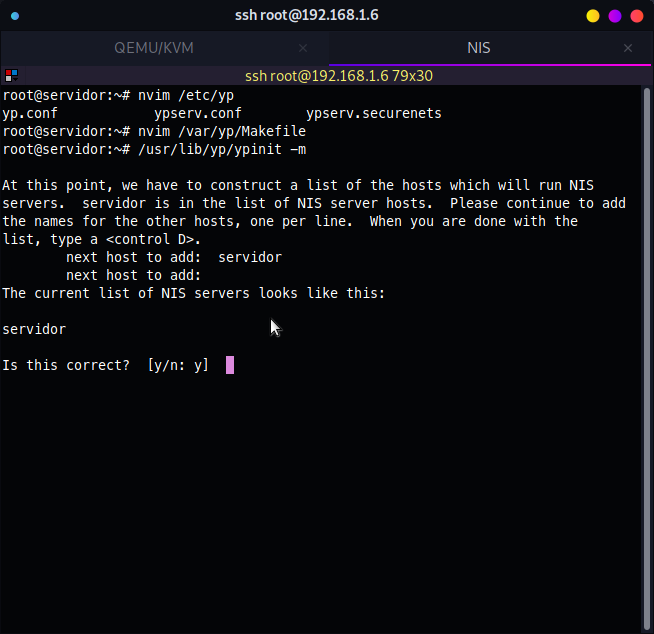
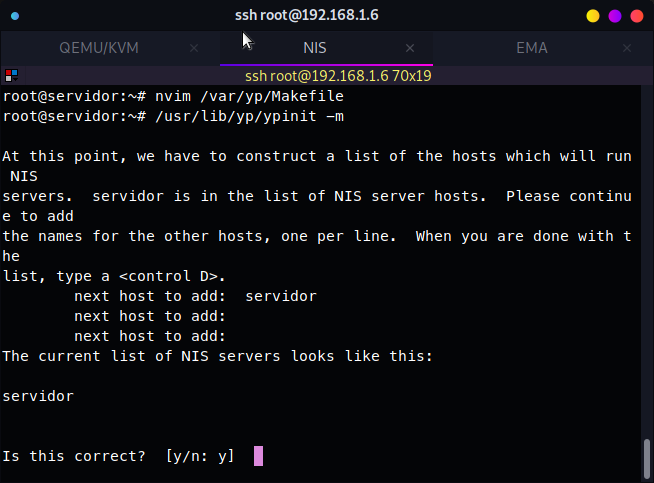
nis

diff --git a/_posts/2022-08-21-nis.md b/_posts/2022-08-21-nis.md
@@ -31,7 +31,205 @@ tags:
 
 ![](/assets/images/nis/wallpapers.png)
 
+**SERVIDOR IP: 192.168.1.6**
+
+**EQUIPO CLIENTE: 192.168.1.8**
+
+
+## ISTALACIÓN
+
+La instalación de Network Information Service se puede realizar desde la misma terminal de Linux.
+
 ```bash
 apt update
 apt upgrade
+apt install nis
 ```
+
+**NIS** funcionara como cliente o servidor, dependiendo de la configuración que se realice.
+
+## CONFIGURACIÓN
+
+Para convertir **NIS** en un servidor se debe editar el archivo **_/etc/defaults/nis_**.
+
+
+
+```bash
+nvim /etc/defaults/nis
+```
+
+Dentro del mismo se debe definir a **NISSERVER** como _master_.
+
+```bash
+# Are we a NIS server and if so what kind (values: false, slave, master)?
+NISSERVER=master
+```
+
+### RED
+
+Definir las redes que tendrán acceso al NIS (Yellow Pages)
+
+```bash
+nvim /etc/ypserv.securenets
+```
+
+Para este ejemplo utilizare la red **192.168.1.0/24**. 
+
+```bash
+# This lines gives access to everybody. PLEASE ADJUST!
+255.255.255.0           192.168.1.0
+```
+Al definir la red con la cual se trabajara, ninguna maquina fuera de esta red tendrá acceso.
+
+### DOMINIO NIS
+
+Asignar dominio **NIS**. En este ejemplo utilizare **_ema.local_**.
+
+
+```bash
+nvim /etc/defaultdomain
+```
+
+Este archivo es probable que no exista, por lo tanto se debe crear.
+
+```bash
+ema.local
+~
+~
+```
+
+Finalizada las configuraciones es necesario reiniciar los servicios y habilitarlos para que inicien de forma automática con el sistema.
+
+
+```bash
+systemctl restart rpcbind ypserv yppasswdd ypxfrd
+systemctl enable rpcbind ypserv yppasswdd ypxfrd
+```
+
+![](/assets/images/nis/ps.png)
+
+
+### MAKEFILE
+
+Definir los servicios que se van a exportar. Para eso se debe editar **_nvim /var/yp/Makefile_**
+
+```bash
+nvim /var/yp/Makefile
+```
+
+Como en los inicio de los sistemas Linux las claves venían en el archivo **passwd** y ahora se encuentran en el archivo **shadow**. Este mismo archivo se debe definir.
+
+```bash
+ALL =   passwd group hosts rpc services netid protocols netgrp
+#ALL += publickey mail ethers bootparams printcap
+#ALL += amd.home auto.master auto.home auto.local
+#ALL += timezone locale networks netmasks
+```
+
+En la primera linea se debe agregar **shadow**.
+
+```bash
+ALL =   passwd shadow group hosts rpc services netid protocols netgrp
+#ALL += publickey mail ethers bootparams printcap
+#ALL += amd.home auto.master auto.home auto.local
+#ALL += timezone locale networks netmasks
+```
+
+### INICIAR SERVICIO
+
+Para iniciar el servicio de **Yellow Pages** ejecutar el binario **ypinit**.
+
+```bash
+/usr/lib/yp/ypinit -m
+```
+
+El **HOST** que se coloca como **_servidor maestro_** es el mismo equipo y su **HOSTNAME** es **servdior**.
+
+![](/assets/images/nis/ypinit.png)
+
+Por lo tanto solo se debe presionar **_<\Control> D_**.
+
+![](/assets/images/nis/ypinit1.png)
+
+Finalizado este paso, el servicio se encuentra funcionando.
+
+## CLIENTE
+
+Dentro del equipo cliente se debe instalar el servicio de **NIS**.
+
+```bash
+apt update
+apt upgrade
+apt install nis
+```
+Luego de la instalación se le debe decir al equipo cliente donde esta el **SERVIDOR NIS**. 
+
+Editar el archivo **_/etc/hosts_**.
+
+```bash
+nvim /etc/hosts
+```
+
+![](/assets/images/nis/hosts.png)
+
+### DOMINIO
+
+Este cliente pertenece al dominio **_ema.local_** y el servidor que se encarga de administrar este dominio es **_servidor_**.
+
+
+```bash
+nvim /etc/yp.conf
+```
+
+Agregar:
+```bash
+# ypserver ypserver.network.com
+domain ema.local       server  servidor 
+```
+
+![](/assets/images/nis/yp.png)
+
+### SERVICIOS
+
+Servicio de los clientes que vendrán por medio del **NIS**
+
+```bash
+nvim /etc/nsswitch.conf
+```
+
+Para este ejemplo solo traere los siguientes servicios:
+
+```bash
+passwd:         files systemd nis
+group:          files systemd nis
+shadow:         files nis
+hosts:          files dns nis
+```
+
+![](/assets/images/nis/nsswitch.png)
+
+
+### HOSTS
+
+Agregar el dominio **_ema.local_**
+
+```bash
+nvim /etc/defaultdomain 
+```
+
+Para finalizar se debe reniciar y habilitar los servicios.
+
+```bash
+systemctl restart rpcbind nscd ypbind
+systemctl enable rpcbind nscd ypbind
+```
+
+
+## GESTION DE USUARIOS
+
+
+Cuando se inicia sesión con el usuario del **SERVIDOR NIS** no entrara a su directorio **HOME**, ya que el mismo se encuentra dentro del **SERVIDOR NIS** y no en la maquina cliente. Para esto se podría utilizar **NFS**, y exportar todo el **HOME** del servidor a toda la red.
+
+
+## INSTALACION NFS
+
